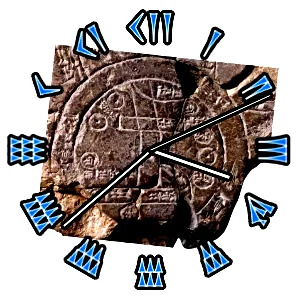
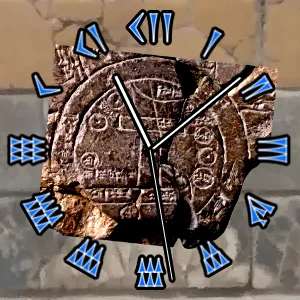
m

diff --git a/src/pages/2026/26-08/26-08-19/Clock.module.css b/src/pages/2026/26-08/26-08-19/Clock.module.css
@@ -11,14 +11,41 @@
   display: flex;
   align-items: center;
   justify-content: center;
-  background-size: contain;
-  background-position: center;
-  background-repeat: no-repeat;
-  background-color: #fff; /* Fallback color */
-  filter: contrast(1.8);
 
   /* Reference the font loaded via useSuspenseFontLoader */
   font-family: 'MyAnalogClockFont', sans-serif;
+}
+
+.container::before {
+  content: '';
+  position: absolute;
+  top: 0;
+  left: 0;
+  width: 100%;
+  height: 100%;
+  background-color: #fff; /* Fallback color on the bottom layer */
+  background-image: var(--background-image-wall);
+  background-position: center;
+  background-repeat: repeat;
+  background-size: auto;
+  filter: saturate(0.8) contrast(0.6);
+  z-index: -2; /* Position it at the very back */
+}
+
+.container::after {
+  content: '';
+  position: absolute;
+  top: 0;
+  left: 0;
+  width: 100%;
+  height: 100%;
+  background-image: var(--background-image-map);
+  background-position: center;
+  background-repeat: no-repeat;
+  background-size: contain;
+  filter: contrast(1.8);
+  /* This layer sits on top of ::before but behind the main content */
+  z-index: -1;
 }
 
 .backgroundLayer {
@@ -26,8 +53,8 @@
   top: 0;
   left: 0;
   width: 100%;
-  height: 100%;
-  background-image: url('@/assets/images/26_images/26-08/26-08-19/wall.webp');
+  height: 100%; 
+   background-image: url('@/assets/images/26_images/26-08/26-08-19/wall.webp');
   background-size: cover;
   background-position: center;
   z-index: -1;

diff --git a/src/pages/2026/26-08/26-08-19/Clock.tsx b/src/pages/2026/26-08/26-08-19/Clock.tsx
@@ -87,12 +87,11 @@ const AnalogClockComponent: React.FC = () => {
   return (
     // E. Root element must be `<main>`.
     <main
-      className={styles.container}
       style={{
-        backgroundImage: `url(${backgroundImage}), url(${wallImage})`,
-        backgroundRepeat: 'no-repeat, repeat', // Do not repeat the map, but repeat the wall texture
-        backgroundSize: 'contain, auto', // Contain the map, use original size for the wall texture
-      }}
+        '--background-image-map': `url(${backgroundImage})`,
+        '--background-image-wall': `url(${wallImage})`,
+      } as React.CSSProperties}
+      className={styles.container}
     >
       {/* F. Use the shared <SRTime> component for accessibility. */}
       <SRTime time={time} />
